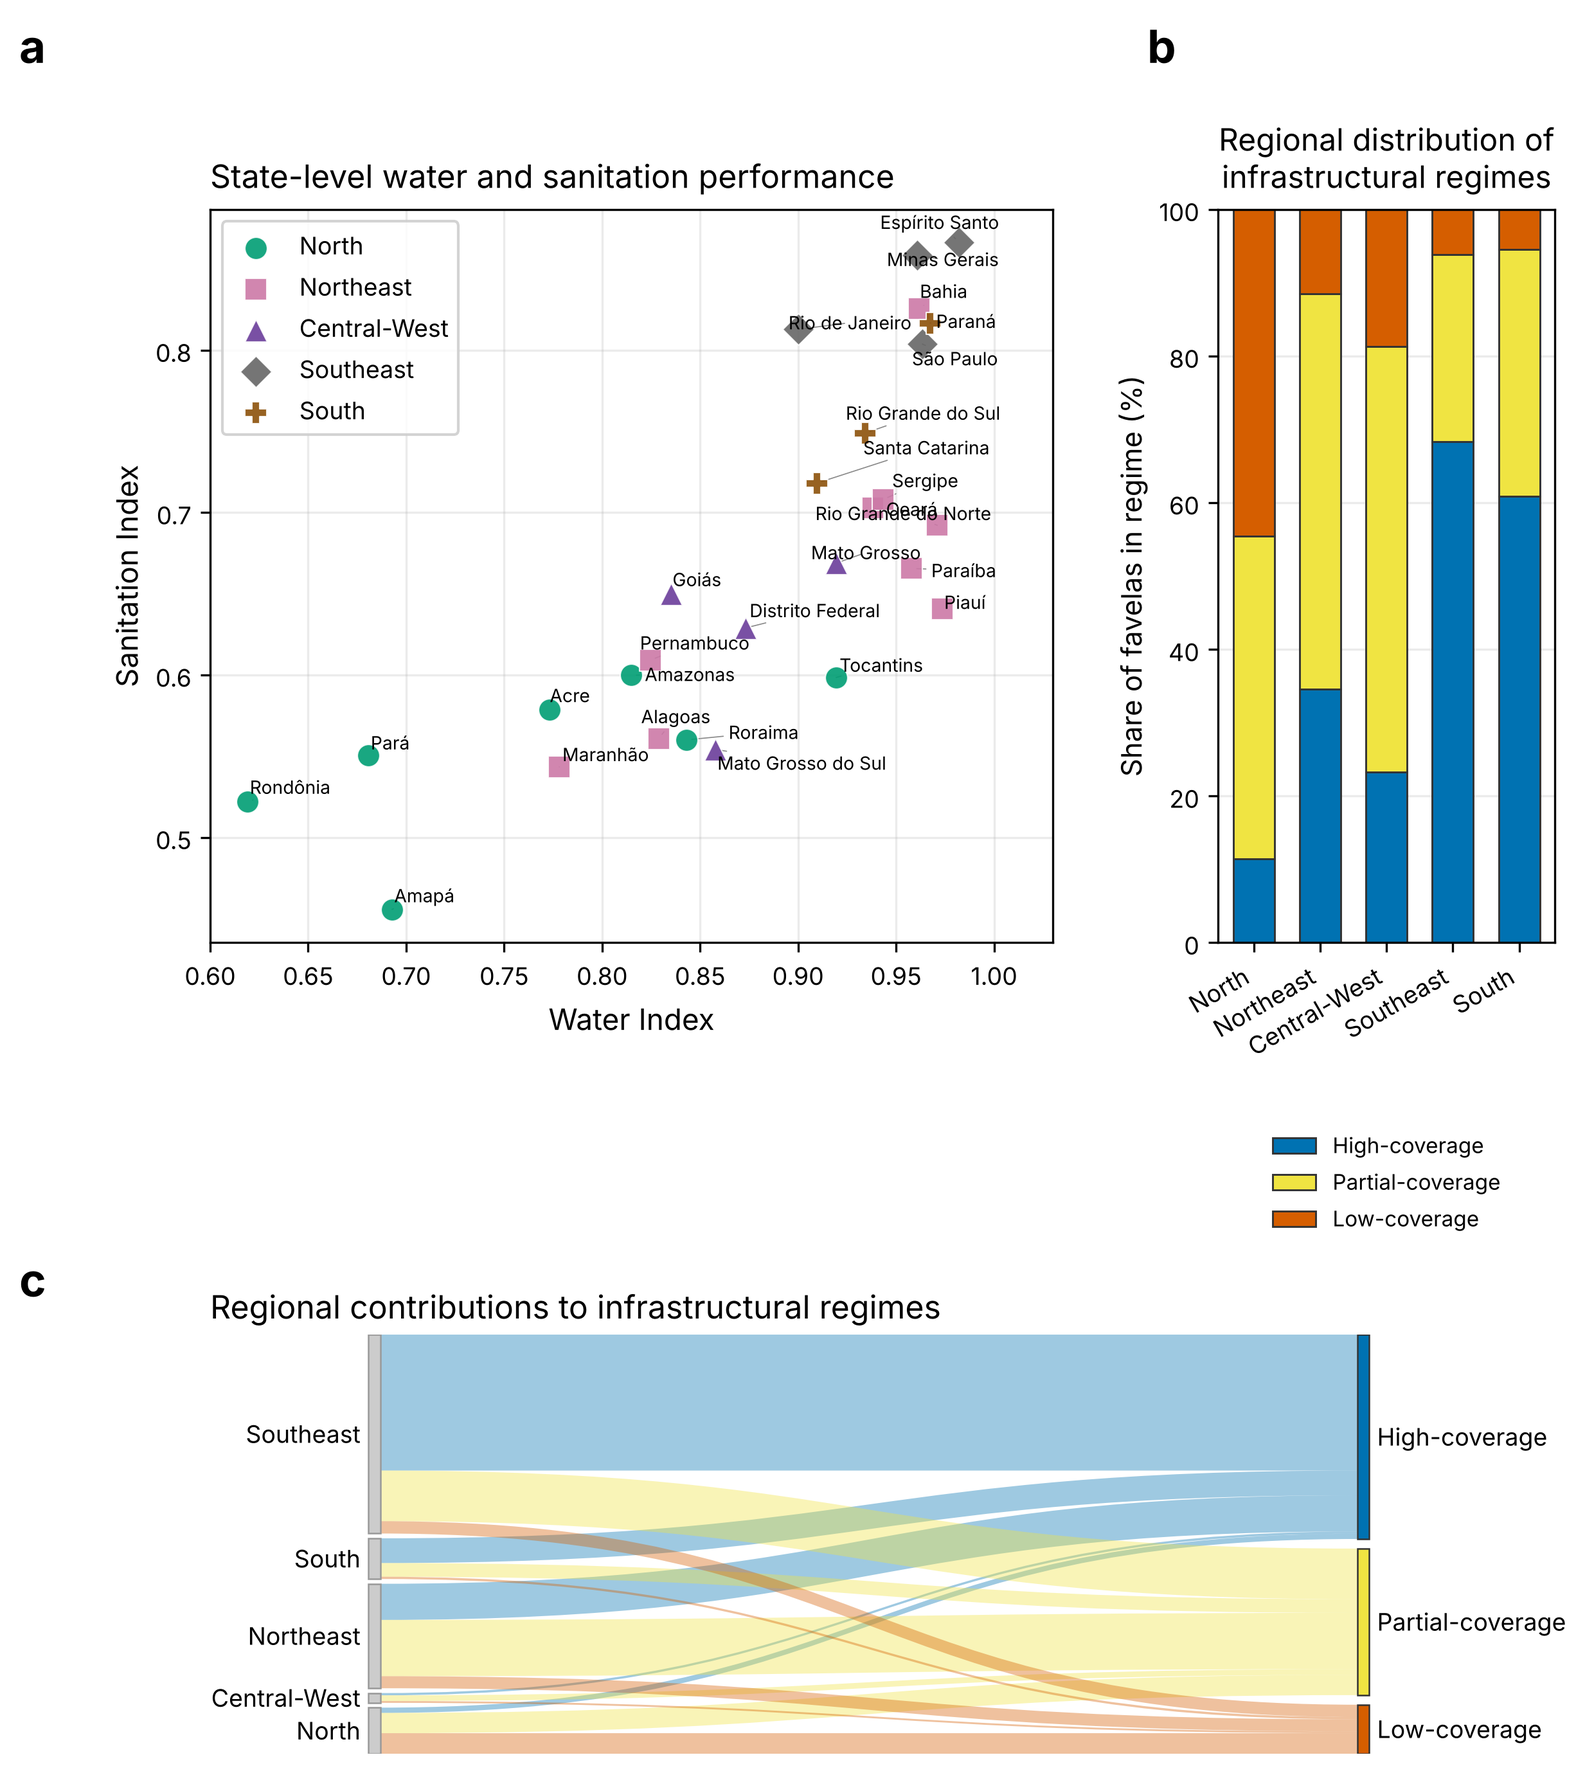
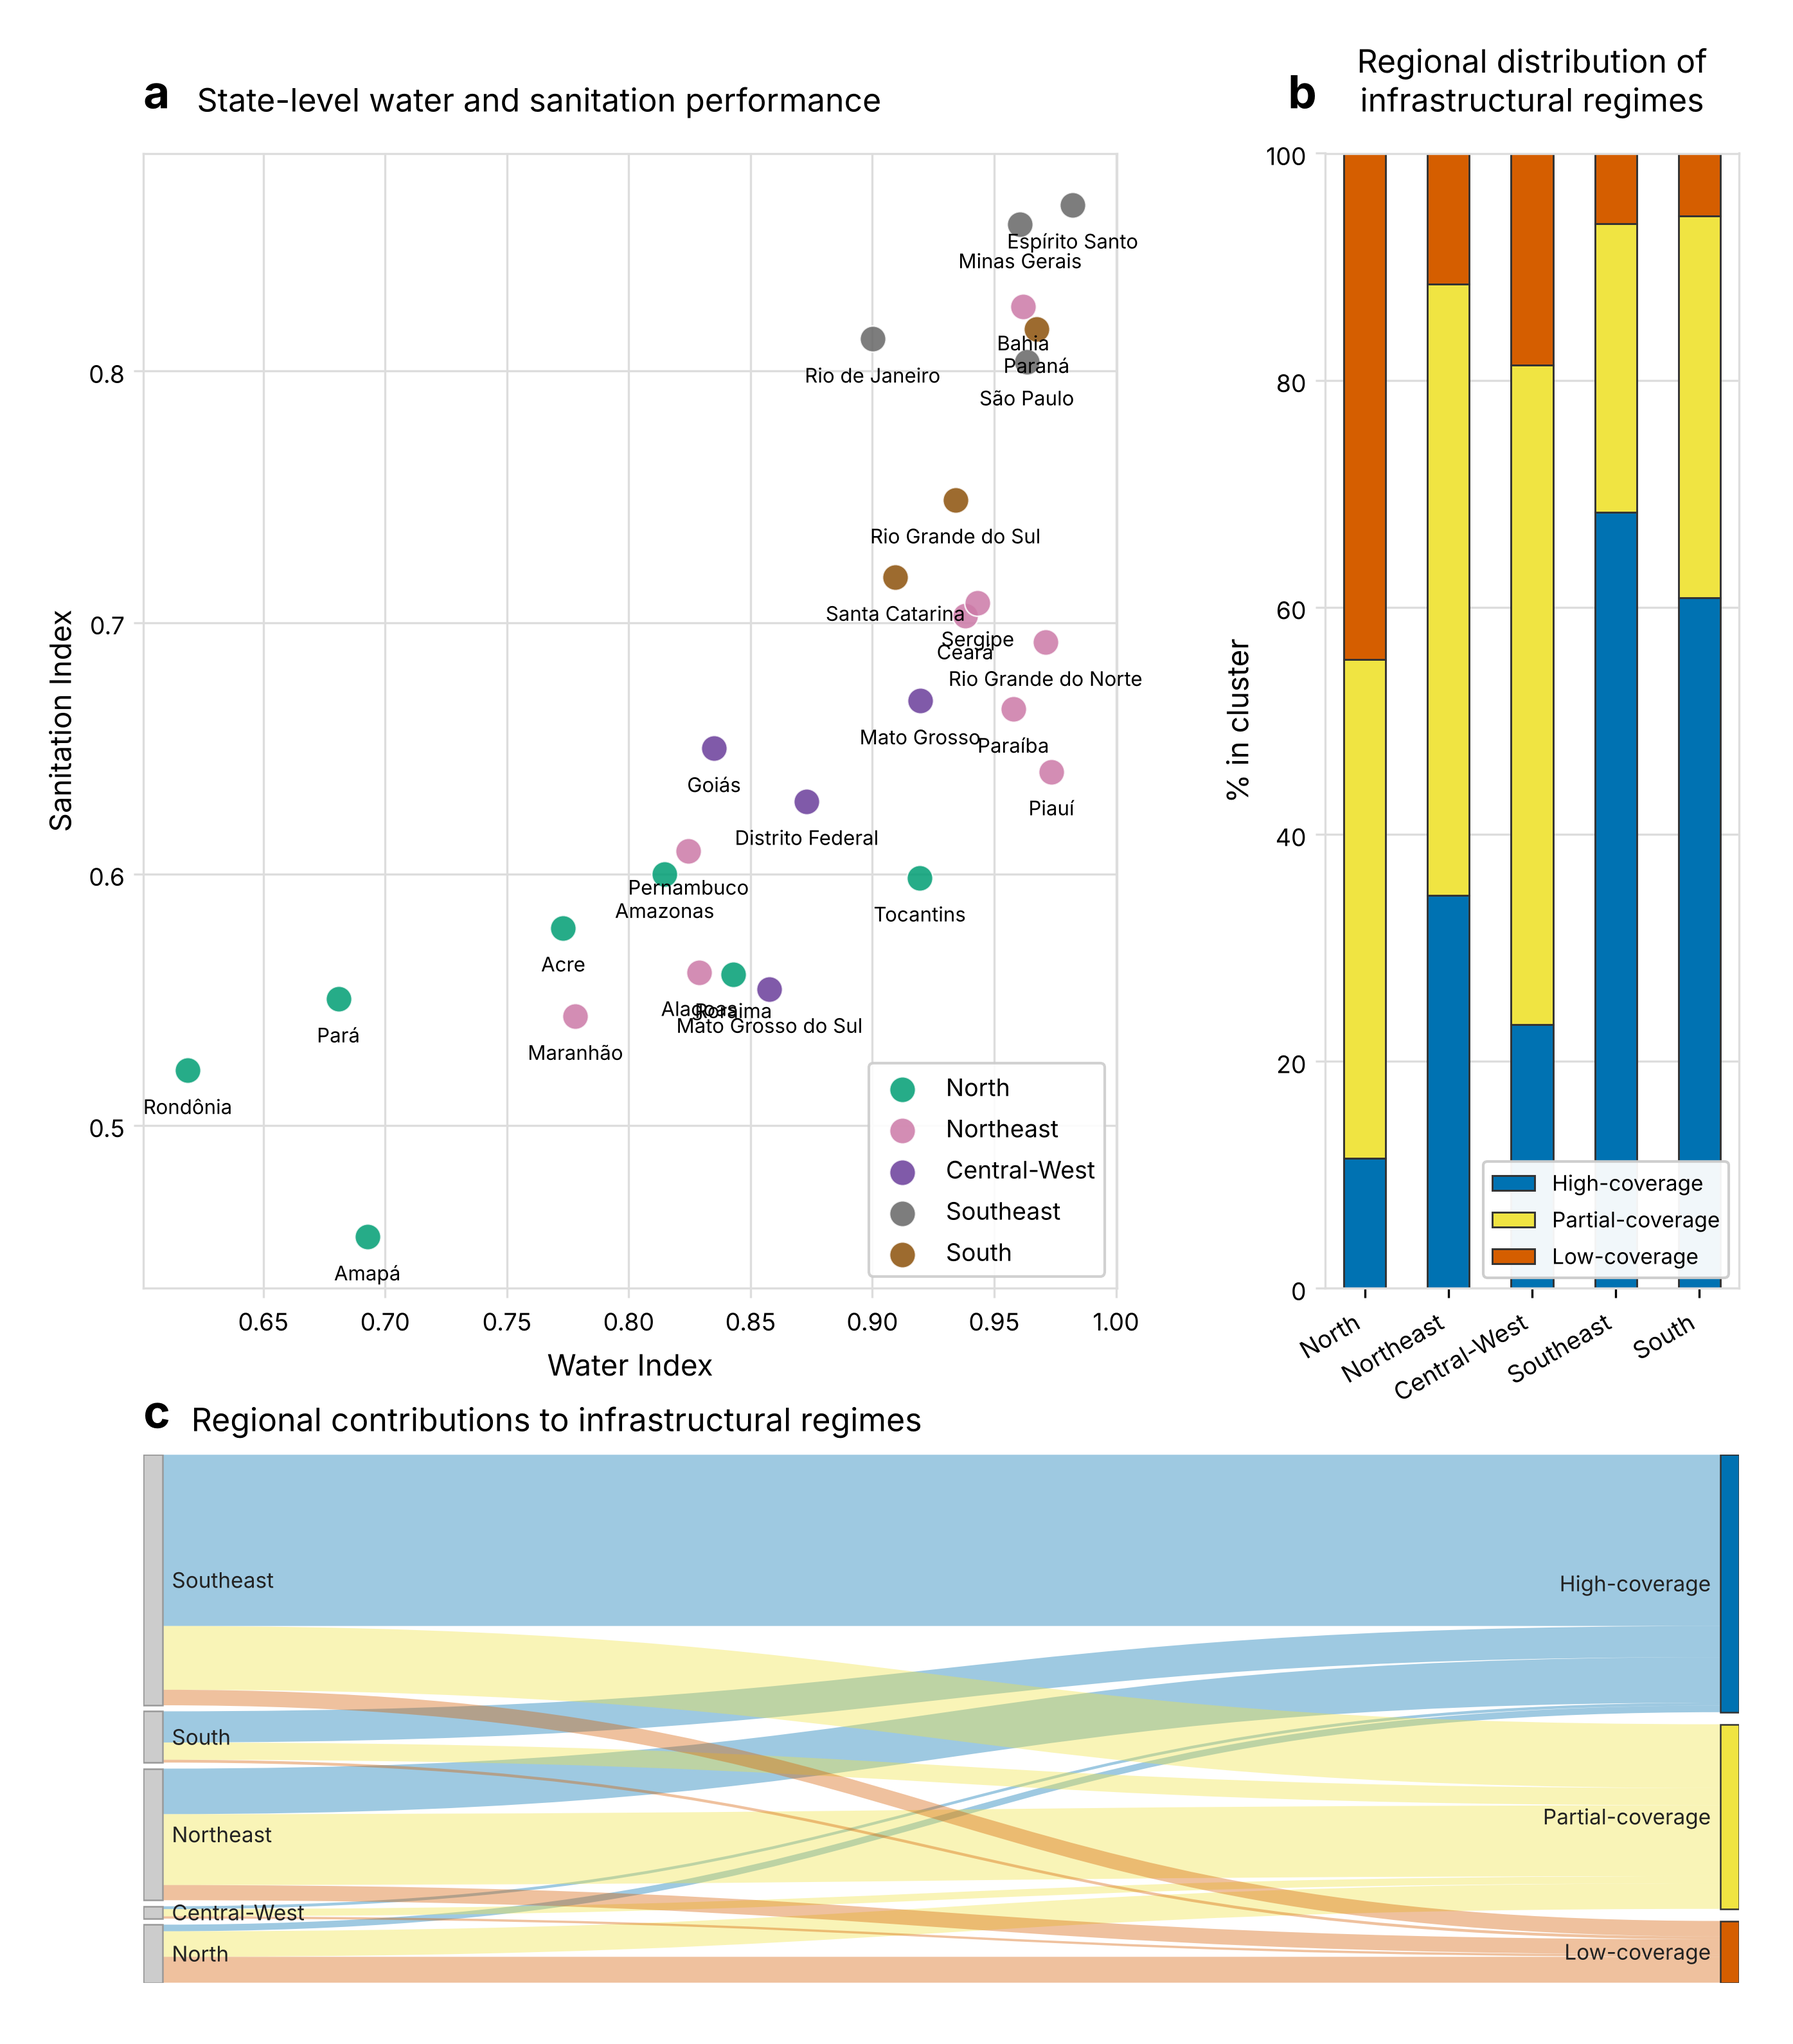
fig8_regional.py: match original layout
Claude-Session: https://claude.ai/code/session_01QtoYdRbTK1aSuu59mDSYQo

diff --git a/src/figures/fig8_regional.py b/src/figures/fig8_regional.py
@@ -73,11 +73,16 @@ def sankey(ax, counts):
             ax.add_patch(PathPatch(Path(verts, codes), facecolor=REGIME_COLORS[k], alpha=0.38, edgecolor="none"))
     for r in SANKEY_LEFT_ORDER:
         ax.add_patch(Rectangle((xl, ly[r]), w, left_tot[r], facecolor="#cccccc", edgecolor="#999999", lw=0.6))
-        ax.text(xl - 0.008, ly[r] + left_tot[r] / 2, r, ha="right", va="center", fontsize=9)
+        ax.text(xl + w + 0.006, ly[r] + left_tot[r] / 2, r, ha="left", va="center", fontsize=8, color="#222222")
     for k in sorted(right_tot.index):
         ax.add_patch(Rectangle((xr, ry[k]), w, right_tot[k], facecolor=REGIME_COLORS[k], edgecolor=REGIME_EDGE, lw=0.6))
-        ax.text(xr + w + 0.008, ry[k] + right_tot[k] / 2, REGIME_NAMES[k], ha="left", va="center", fontsize=9)
-    ax.set_xlim(-0.16, 1.2); ax.set_ylim(H, 0); ax.axis("off")
+        ax.text(xr - 0.006, ry[k] + right_tot[k] / 2, REGIME_NAMES[k], ha="right", va="center", fontsize=8, color="#222222")
+    ax.set_xlim(0, 1 + w); ax.set_ylim(H, 0); ax.axis("off")
+
+
+def panel_title(ax, letter, title, x_title=0.055, y=1.03, **kw):
+    ax.text(0, y, letter, transform=ax.transAxes, fontsize=17, fontweight="bold", va="bottom", ha="left")
+    ax.text(x_title, y, title, transform=ax.transAxes, fontsize=12, va="bottom", ha="left", **kw)
 
 
 def main():
@@ -95,53 +100,53 @@ def main():
     counts = gdf.groupby(["region", "cluster"]).size().unstack(fill_value=0).reindex(REGIONS)
     perc = counts.div(counts.sum(axis=1), axis=0) * 100
 
-    fig = plt.figure(figsize=(9, 10.4))
-    gs = fig.add_gridspec(2, 2, height_ratios=[1.75, 1.0], width_ratios=[2.5, 1.0], hspace=0.68, wspace=0.28)
+    grid = "#dddddd"
+    fig = plt.figure(figsize=(9.3, 10.6))
+    gs = fig.add_gridspec(2, 2, height_ratios=[2.15, 1.0], width_ratios=[2.35, 1.0], hspace=0.2, wspace=0.3,
+                          left=0.08, right=0.97, top=0.925, bottom=0.03)
 
-    # (a) scatter by state
+    # (a) scatter by state (circles only, labels below points, as in the original)
     ax = fig.add_subplot(gs[0, 0])
-    texts = []
     for r in REGIONS:
         d = states[states["region"] == r]
-        ax.scatter(d["wtr_idx"], d["sanit_idx"], s=70, marker=REGION_MARKERS[r], color=REGION_COLORS[r],
-                   alpha=0.9, edgecolor="white", linewidth=0.5, label=r, zorder=2)
-    try:
-        from adjustText import adjust_text
-        texts = [ax.text(row.wtr_idx, row.sanit_idx, row.NM_UF, fontsize=6.8) for row in states.itertuples()]
-        adjust_text(texts, ax=ax, expand=(1.15, 1.3), arrowprops=dict(arrowstyle="-", color="#888888", lw=0.4))
-    except ImportError:
-        for row in states.itertuples():
-            ax.text(row.wtr_idx, row.sanit_idx - 0.007, row.NM_UF, fontsize=6.8, ha="center", va="top")
+        ax.scatter(d["wtr_idx"], d["sanit_idx"], s=95, color=REGION_COLORS[r], alpha=0.85, edgecolor="white",
+                   linewidth=0.6, label=r, zorder=2)
+    for row in states.itertuples():
+        ax.annotate(row.NM_UF, (row.wtr_idx, row.sanit_idx), xytext=(0, -9), textcoords="offset points",
+                    ha="center", va="top", fontsize=7.5)
     ax.set_xlabel("Water Index", fontsize=11); ax.set_ylabel("Sanitation Index", fontsize=11)
-    ax.grid(True, alpha=0.25); ax.tick_params(labelsize=9)
-    ax.set_xlim(0.6, 1.03)
-    ax.legend(fontsize=9, loc="upper left", framealpha=0.85)
-    ax.set_title("State-level water and sanitation performance", fontsize=12, loc="left", pad=8)
-    fig.text(0.015, 0.975, "a", fontsize=17, fontweight="bold", va="top")
+    ax.grid(True, color=grid, lw=0.8); ax.set_axisbelow(True)
+    for sp in ax.spines.values():
+        sp.set_color(grid)
+    ax.tick_params(labelsize=9, color=grid)
+    ax.legend(fontsize=9, loc="lower right", framealpha=0.9)
+    panel_title(ax, "a", "State-level water and sanitation performance")
 
-    # (b) stacked bars: regime share by region
+    # (b) stacked bars; legend over the bars (inside the axes, lower part), as in the original
     bx = fig.add_subplot(gs[0, 1])
     bottom = np.zeros(len(REGIONS))
     for k in sorted(perc.columns):
-        bx.bar(np.arange(len(REGIONS)), perc[k].values, bottom=bottom, width=0.62, color=REGIME_COLORS[k],
+        bx.bar(np.arange(len(REGIONS)), perc[k].values, bottom=bottom, width=0.5, color=REGIME_COLORS[k],
                edgecolor=REGIME_EDGE, linewidth=0.7, label=REGIME_NAMES[k])
         bottom += perc[k].values
     bx.set_xticks(np.arange(len(REGIONS))); bx.set_xticklabels(REGIONS, rotation=30, ha="right", fontsize=9)
-    bx.set_ylim(0, 100); bx.set_ylabel("Share of favelas in regime (%)", fontsize=10.5)
-    bx.tick_params(axis="y", labelsize=9)
-    bx.grid(True, axis="y", alpha=0.25); bx.set_axisbelow(True)
+    bx.set_ylim(0, 100); bx.set_ylabel("% in cluster", fontsize=11)
+    bx.tick_params(axis="y", labelsize=9, color=grid)
+    bx.grid(True, axis="y", color=grid, lw=0.8); bx.set_axisbelow(True)
+    for sp in bx.spines.values():
+        sp.set_color(grid)
     h, l = bx.get_legend_handles_labels()
-    bx.legend(h, l, fontsize=8, loc="lower center", bbox_to_anchor=(0.5, -0.42), frameon=False)
-    bx.set_title("Regional distribution of\ninfrastructural regimes", fontsize=11.5, pad=8)
-    fig.text(0.665, 0.975, "b", fontsize=17, fontweight="bold", va="top")
+    bx.legend(h, l, fontsize=8, loc="lower right", framealpha=0.95)
+    bx.text(-0.02, 1.03, "b", transform=bx.transAxes, fontsize=17, fontweight="bold", va="bottom", ha="right")
+    bx.text(0.5, 1.03, "Regional distribution of\ninfrastructural regimes", transform=bx.transAxes, fontsize=12,
+            va="bottom", ha="center")
 
-    # (c) Sankey
+    # (c) Sankey, full width, shorter
     cx = fig.add_subplot(gs[1, :])
     sankey(cx, counts)
-    cx.set_title("Regional contributions to infrastructural regimes", fontsize=12, loc="left", pad=6)
-    fig.text(0.015, 0.36, "c", fontsize=17, fontweight="bold", va="top")
+    panel_title(cx, "c", "Regional contributions to infrastructural regimes", x_title=0.03)
 
-    fig.savefig(a.out, dpi=300, bbox_inches="tight")
+    fig.savefig(a.out, dpi=300)
     print("saved", a.out)
 
 
